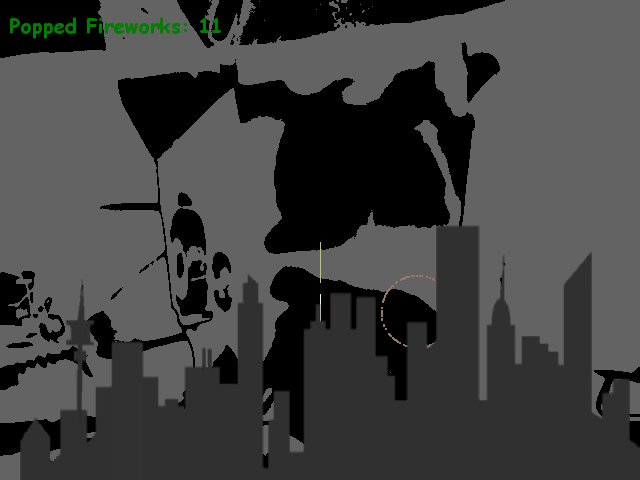
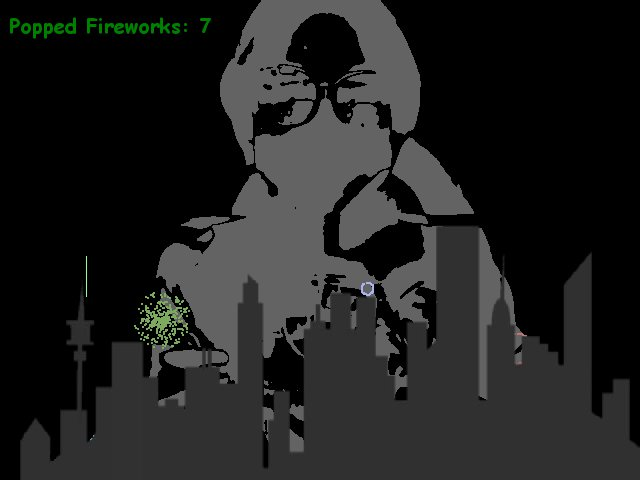
Firework

diff --git a/FIREWORK/0528firework.py b/FIREWORK/0528firework.py
@@ -96,7 +96,7 @@ arc_x = np.where(arc==255)[0]
 arc_y = np.where(arc==255)[1]
 
 ################################CAMERA########################
-cap = cv2.VideoCapture(1)
+cap = cv2.VideoCapture(0)
 cap.set(cv2.CAP_PROP_AUTOFOCUS, 0)
 cap.set(cv2.CAP_PROP_FRAME_WIDTH,W)
 cap.set(cv2.CAP_PROP_FRAME_HEIGHT,H)
